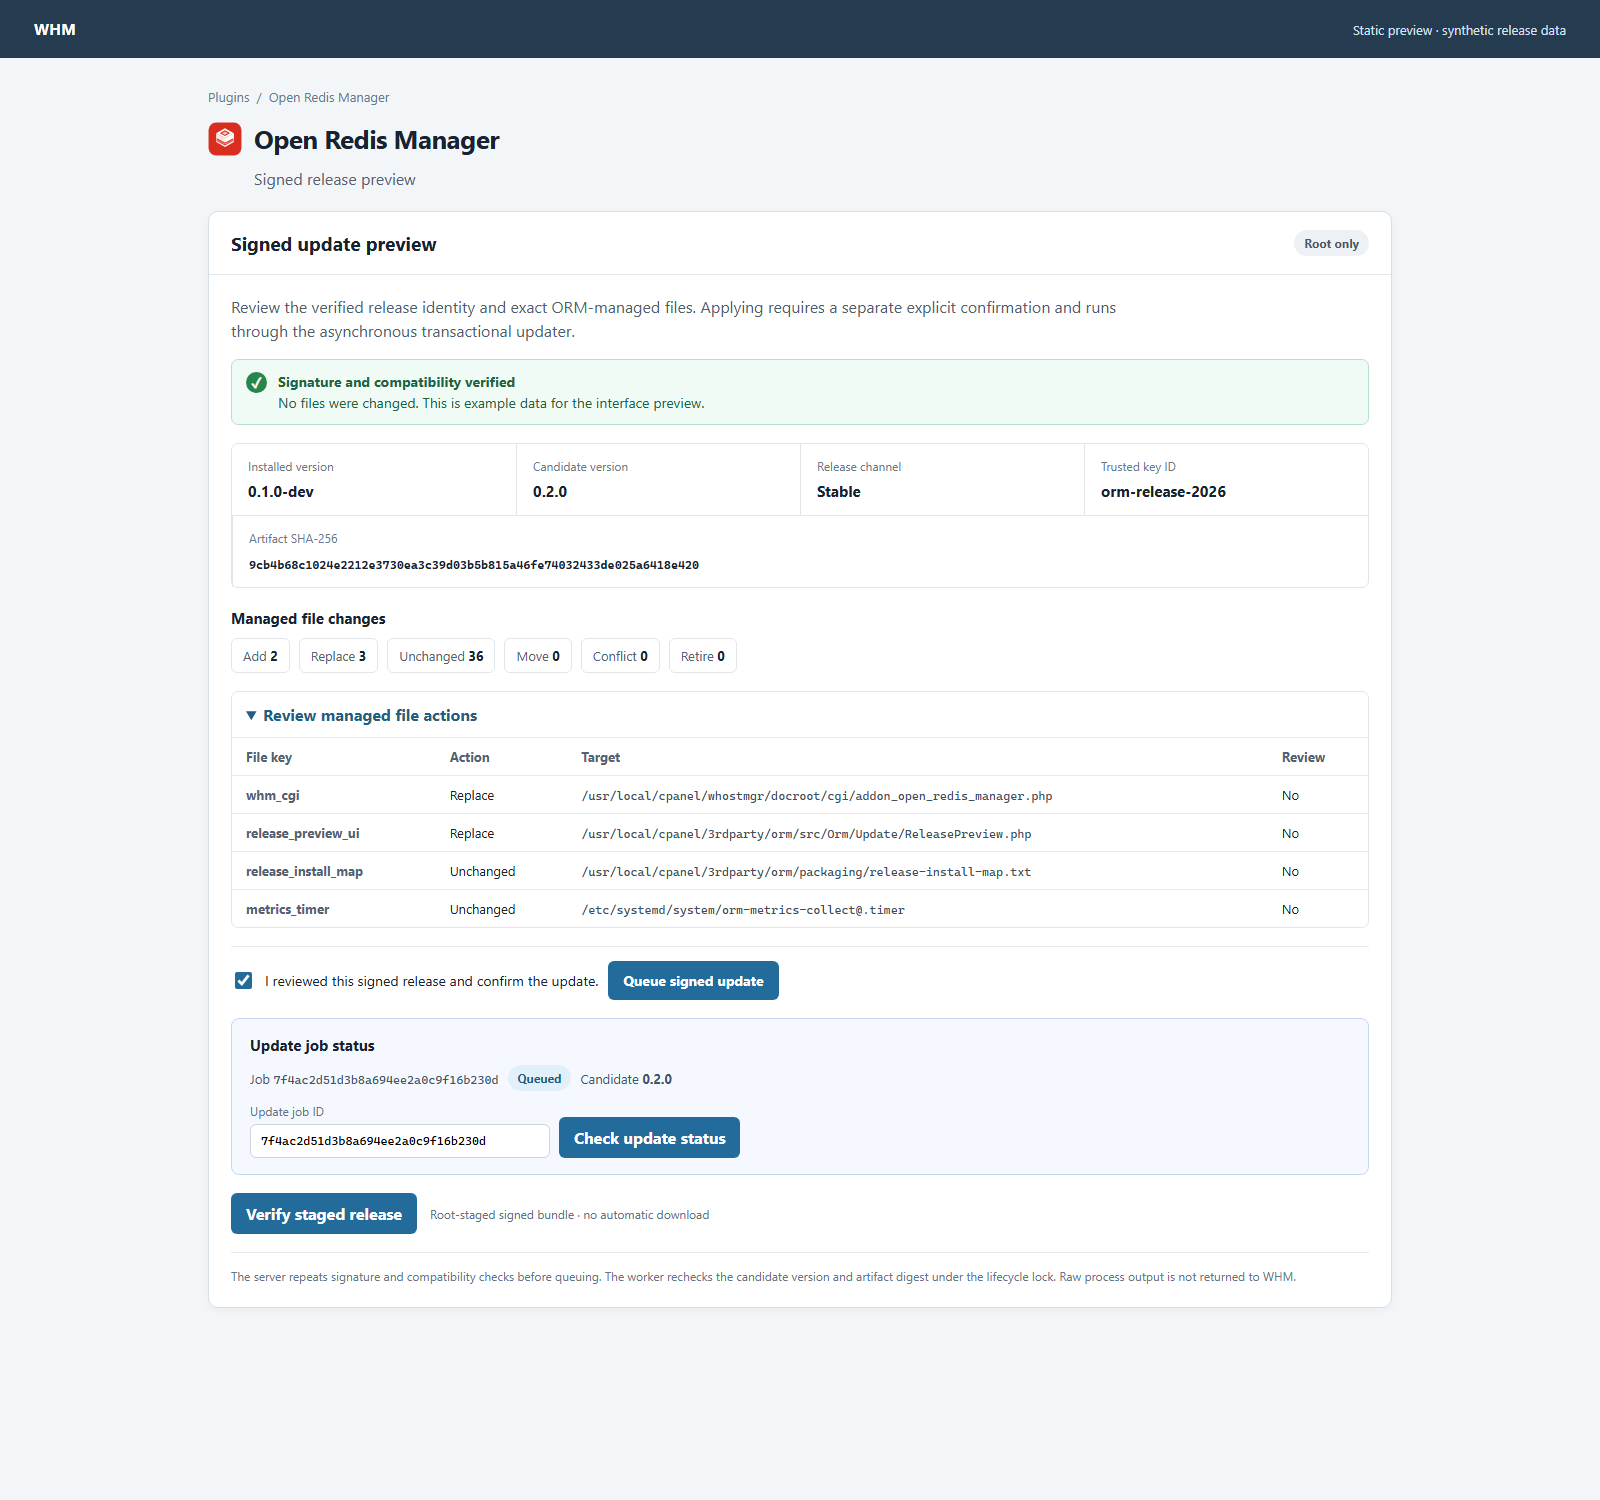
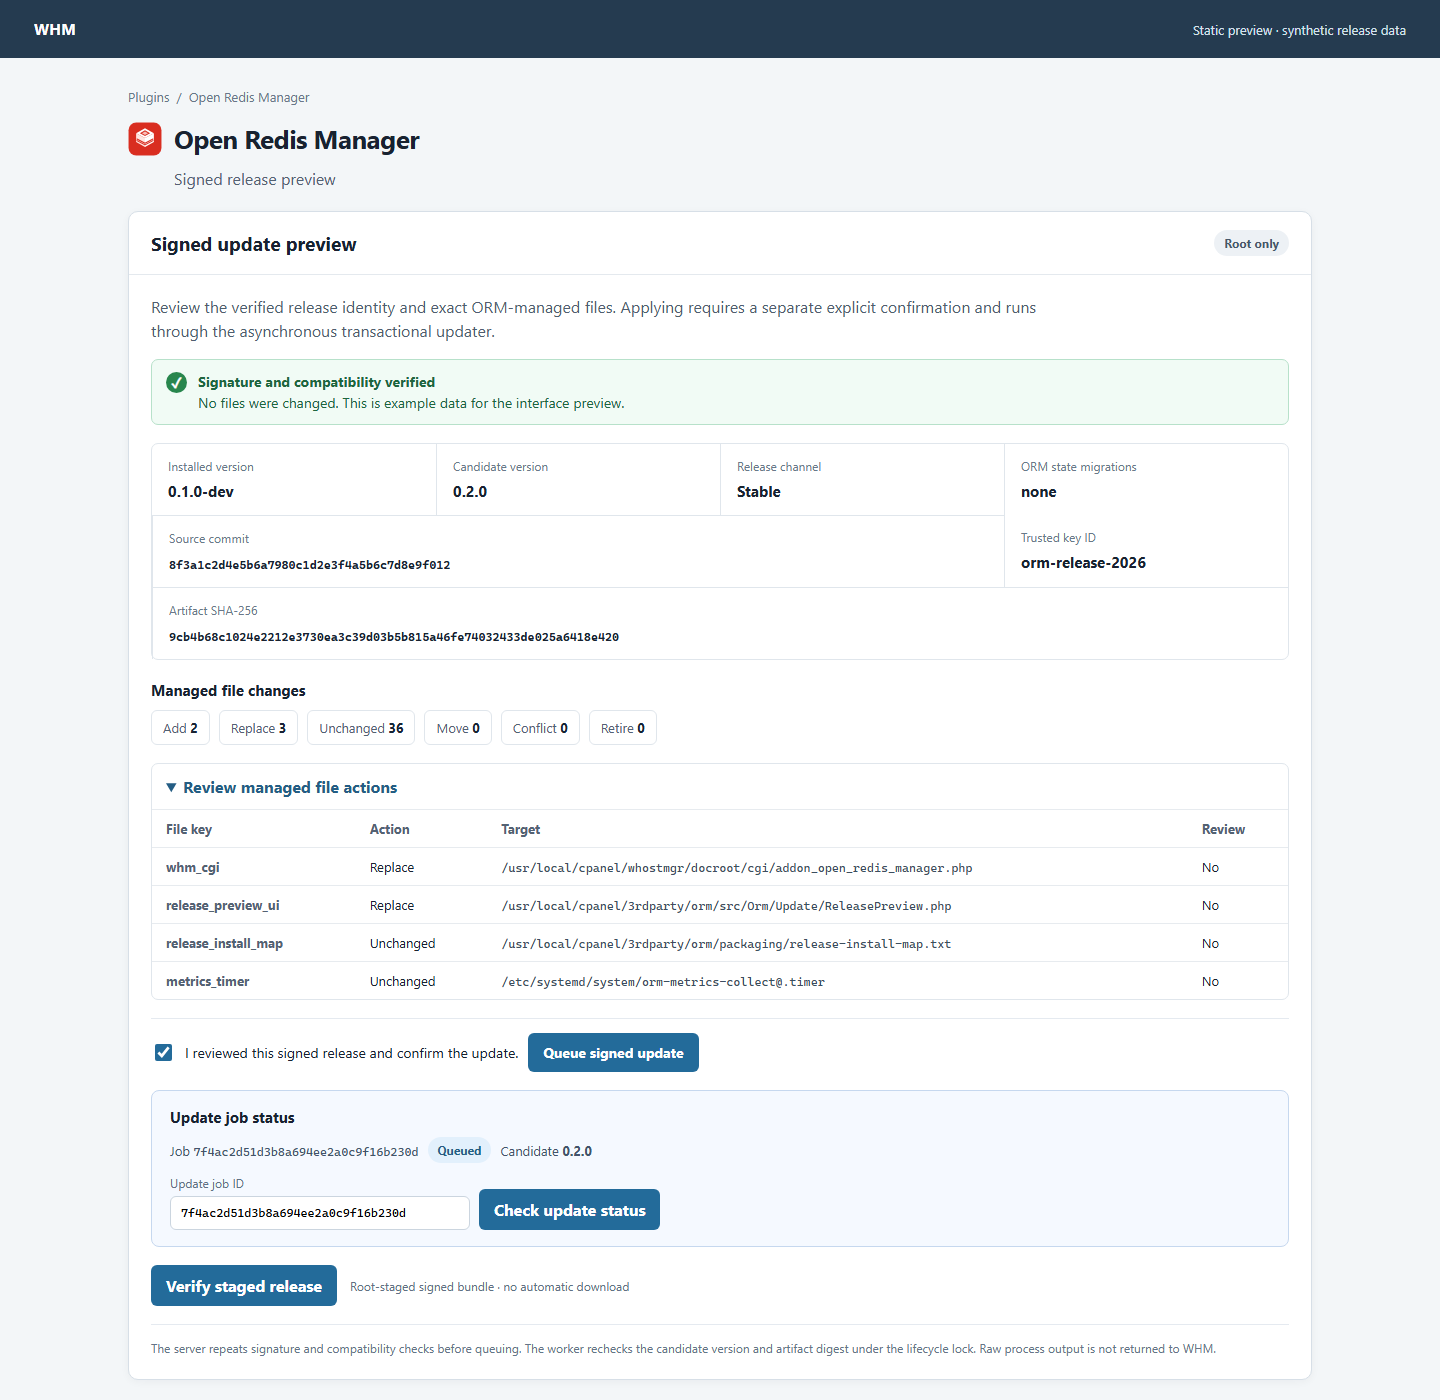
Bind signed releases to source commits

diff --git a/screenshots/previews/whm-update-preview.html b/screenshots/previews/whm-update-preview.html
@@ -32,6 +32,7 @@
     dd { margin: 0; font-size: 15px; font-weight: 650; }
     code { font-family: "Cascadia Code", Consolas, monospace; font-size: 12px; overflow-wrap: anywhere; }
     .digest { grid-column: 1 / -1; border-top: 1px solid #e0e6ec; }
+    .source-commit { grid-column: span 3; border-top: 1px solid #e0e6ec; }
     h3 { margin: 20px 0 10px; font-size: 15px; }
     .counts { display: flex; gap: 9px; flex-wrap: wrap; }
     .counts span { padding: 8px 11px; border: 1px solid #e0e6ec; border-radius: 6px; color: #526173; font-size: 13px; }
@@ -55,7 +56,7 @@
     button { padding: 10px 15px; border: 0; border-radius: 6px; color: white; background: #236b9a; font: inherit; font-weight: 650; }
     .quiet { color: #617184; font-size: 12px; }
     .footnote { margin: 18px 0 0; padding-top: 14px; border-top: 1px solid #e5eaf0; color: #657588; font-size: 12px; line-height: 1.5; }
-    @media (max-width: 760px) { .layout { padding: 0 15px; margin: 18px auto; } .release { grid-template-columns: 1fr 1fr; } .digest { grid-column: 1 / -1; } .topbar { padding: 0 18px; } }
+    @media (max-width: 760px) { .layout { padding: 0 15px; margin: 18px auto; } .release { grid-template-columns: 1fr 1fr; } .digest, .source-commit { grid-column: 1 / -1; } .topbar { padding: 0 18px; } }
   </style>
 </head>
 <body>
@@ -73,6 +74,8 @@
           <div><dt>Installed version</dt><dd>0.1.0-dev</dd></div>
           <div><dt>Candidate version</dt><dd>0.2.0</dd></div>
           <div><dt>Release channel</dt><dd>Stable</dd></div>
+          <div><dt>ORM state migrations</dt><dd>none</dd></div>
+          <div class="source-commit"><dt>Source commit</dt><dd><code>8f3a1c2d4e5b6a7980c1d2e3f4a5b6c7d8e9f012</code></dd></div>
           <div><dt>Trusted key ID</dt><dd>orm-release-2026</dd></div>
           <div class="digest"><dt>Artifact SHA-256</dt><dd><code>9cb4b68c1024e2212e3730ea3c39d03b5b815a46fe74032433de025a6418e420</code></dd></div>
         </dl>

diff --git a/tests/release-preview.php b/tests/release-preview.php
@@ -21,6 +21,7 @@ $valid = [
     'release' => [
         'channel' => 'stable',
         'stateMigrations' => 'none',
+        'sourceCommit' => str_repeat('a', 40),
         'keyId' => 'orm-release-2026',
         'artifactSha256' => str_repeat('a', 64),
     ],
@@ -60,6 +61,7 @@ $assert(($result['ok'] ?? false) === true, 'verified candidate is accepted');
 $assert($result['candidateVersion'] === '0.2.0', 'candidate version is returned');
 $assert($result['fileActions'][0]['key'] === 'whm_cgi', 'file action is returned in normalized form');
 $assert($result['release']['stateMigrations'] === 'none', 'signed no-migration contract is returned for operator review');
+$assert($result['release']['sourceCommit'] === str_repeat('a', 40), 'signed source commit is returned for operator review');
 $assert(!array_key_exists('mutationsApplied', $result), 'UI result does not expose arbitrary verifier fields');
 $systemdAction = $valid;
 $systemdAction['fileActions'][0]['target'] = '/etc/systemd/system/orm-broker.service';
@@ -86,6 +88,9 @@ $assert(!(ReleasePreview::validate($json($invalid), '0.1.0-dev', $allowedTargets
 $invalid = $valid;
 $invalid['release']['stateMigrations'] = 'v1-to-v2';
 $assert(!(ReleasePreview::validate($json($invalid), '0.1.0-dev', $allowedTargets)['ok'] ?? false), 'unsupported state migrations are rejected');
+$invalid = $valid;
+$invalid['release']['sourceCommit'] = 'not-a-commit';
+$assert(!(ReleasePreview::validate($json($invalid), '0.1.0-dev', $allowedTargets)['ok'] ?? false), 'invalid source commits are rejected');
 $assert(!(ReleasePreview::validate('{broken', '0.1.0-dev', $allowedTargets)['ok'] ?? false), 'malformed JSON is rejected');
 $assert(!(ReleasePreview::validate(str_repeat('x', 1048577), '0.1.0-dev', $allowedTargets)['ok'] ?? false), 'oversized output is rejected');
 

diff --git a/src/Orm/Update/ReleasePreview.php b/src/Orm/Update/ReleasePreview.php
@@ -126,13 +126,14 @@ final class ReleasePreview
         }
 
         $release = $preview['release'];
-        foreach (['channel', 'keyId', 'artifactSha256', 'stateMigrations'] as $field) {
+        foreach (['channel', 'keyId', 'artifactSha256', 'stateMigrations', 'sourceCommit'] as $field) {
             if (!is_string($release[$field] ?? null)) {
                 return ['ok' => false, 'message' => 'The signed-update verifier returned incomplete release metadata.'];
             }
         }
         if (strlen($release['channel']) > 32 || strlen($release['keyId']) > 64
             || $release['stateMigrations'] !== 'none'
+            || !preg_match('/\A(?:[a-f0-9]{40}|[a-f0-9]{64})\z/D', $release['sourceCommit'])
             || !preg_match('/\A[a-f0-9]{64}\z/D', $release['artifactSha256'])) {
             return ['ok' => false, 'message' => 'The signed-update verifier returned an invalid artifact digest.'];
         }
@@ -144,6 +145,7 @@ final class ReleasePreview
             'release' => [
                 'channel' => $release['channel'],
                 'stateMigrations' => $release['stateMigrations'],
+                'sourceCommit' => $release['sourceCommit'],
                 'keyId' => $release['keyId'],
                 'artifactSha256' => $release['artifactSha256'],
             ],

diff --git a/packaging/whm/cgi/addon_open_redis_manager.php b/packaging/whm/cgi/addon_open_redis_manager.php
@@ -691,6 +691,7 @@ WHM::header('Open Redis Manager', 0, 0);
             <dt>Installed version</dt><dd><?= htmlspecialchars($updatePreview['installedVersion'], ENT_QUOTES | ENT_SUBSTITUTE, 'UTF-8') ?></dd>
             <dt>Candidate version</dt><dd><?= htmlspecialchars($updatePreview['candidateVersion'], ENT_QUOTES | ENT_SUBSTITUTE, 'UTF-8') ?></dd>
             <dt>Release channel</dt><dd><?= htmlspecialchars($updatePreview['release']['channel'], ENT_QUOTES | ENT_SUBSTITUTE, 'UTF-8') ?></dd>
+            <dt>Source commit</dt><dd><code><?= htmlspecialchars($updatePreview['release']['sourceCommit'], ENT_QUOTES | ENT_SUBSTITUTE, 'UTF-8') ?></code></dd>
             <dt>ORM state migrations</dt><dd><?= htmlspecialchars($updatePreview['release']['stateMigrations'], ENT_QUOTES | ENT_SUBSTITUTE, 'UTF-8') ?></dd>
             <dt>Trusted key ID</dt><dd><?= htmlspecialchars($updatePreview['release']['keyId'], ENT_QUOTES | ENT_SUBSTITUTE, 'UTF-8') ?></dd>
             <dt>Artifact SHA-256</dt><dd><code><?= htmlspecialchars($updatePreview['release']['artifactSha256'], ENT_QUOTES | ENT_SUBSTITUTE, 'UTF-8') ?></code></dd>

diff --git a/docs/guides/release-signing.md b/docs/guides/release-signing.md
@@ -1,6 +1,6 @@
 # Offline release bundle signing
 
-`packaging/build-release.sh` builds a release bundle from a clean Git checkout and signs the strict metadata format consumed by the WHM updater. The private key stays outside the repository and is never copied to the output. This is an offline operator workflow, not a hosted signing service or automatic release publisher.
+`packaging/build-release.sh` builds a release bundle from a clean Git checkout and signs the strict metadata format consumed by the WHM updater. Signed metadata records the exact 40- or 64-character Git source commit; WHM displays it beside the version, key ID, and artifact digest. The declaration binds the signer’s approval to a specific commit, but does not by itself prove reproducible-build equivalence or that the commit was reviewed. Verify that it is the intended merged commit before signing. The private key stays outside the repository and is never copied to the output. This is an offline operator workflow, not a hosted signing service or automatic release publisher.
 
 ## Prepare a release source
 
@@ -32,7 +32,7 @@ The builder requires the candidate release to be newer than the maximum installe
 The command creates a new `orm-VERSION/` directory containing:
 
 - `orm-VERSION.tar.gz` — the allowlisted release payload, with normalized file ownership, timestamps and modes;
-- `release.metadata` — version, compatibility range, channel, key ID, artifact size/digest, validity window, and the signed `state_migrations|none` declaration;
+- `release.metadata` — version, compatibility range, channel, key ID, exact source commit, artifact size/digest, validity window, and the signed `state_migrations|none` declaration;
 - `release.sig` — an RSA/SHA-256 detached signature over the exact metadata bytes;
 - `KEY_ID.pem` — the derived public key to distribute through a separately reviewed trust-key change.
 
@@ -40,10 +40,23 @@ It validates the archive structure and checks the signature against the derived 
 
 The updater accepts only the no-migration declaration. Releases that need to alter persistent ORM state must wait for a separately reviewed, versioned migration path with backup, rollback, and interruption recovery. See the [reviewed no-migration release contract](update-lifecycle.md#reviewed-no-migration-release-contract).
 
-## Trust and stage the bundle
+## Signing-key custody and rotation
 
-Review the generated metadata, artifact digest, signature, archive, and public key. Distribute the public key to the target server through a trusted administrative channel and install it as `/etc/orm/release-keys/KEY_ID.pem`, owned by root with no group/world write access. Keep currently trusted keys until all releases signed by them have expired or been deliberately retired. Plan key rotation before signing with a new key ID.
+The repository contains no production signing private key. Before the first public release, the project owner must designate the release-key custodian and approve the trust-key distribution channel. Keep the encrypted RSA private key on an offline or tightly controlled release workstation, restrict access to the designated custodian, and maintain an encrypted backup with separately controlled access. Never place the private key or passphrase in Git, CI, Ruflo memory, a cPanel host, a public artifact, or command-line arguments. This repository does not operate a signing service or automate key revocation.
 
-Manually stage the three release files under the fixed root-owned directory `/var/cpanel/orm/updates/staged/` as `release.metadata`, `release.sig`, and `release.tar.gz`. Never copy the private key to the server. Then use **WHM → Open Redis Manager → Verify staged release**, review the file actions, and apply only a conflict-free preview after explicit confirmation.
+For a planned rotation:
+
+1. Generate a new encrypted key and a never-before-used key ID. Derive the public key and record its SHA-256 fingerprint through the offline release procedure.
+2. Distribute the new public key to target servers through the owner-approved administrative channel as `/etc/orm/release-keys/KEY_ID.pem`, root-owned and not writable by group or other users. Verify its fingerprint on each target.
+3. Keep the old public key installed during an overlap period. Sign new bundles with the new key ID only after the trust change is deployed. Do not remove the old key while any unexpired bundle or queued update may rely on it.
+4. After the old key’s latest metadata expiry (at most 90 days), confirm no staged or queued release uses it, then remove its public key from targets through the same reviewed channel. Never reuse a retired key ID.
+
+For suspected compromise, stop signing immediately, remove the compromised public key from every target through a trusted administrative channel, and establish a new key and trust change before resuming. A GitHub commit or artifact signature cannot revoke a key already trusted by an offline server.
+
+## Publish and stage a bundle
+
+The offline builder creates and verifies files but does not publish them. Before publication, verify the signed source commit is the reviewed release commit, confirm the clean checkout and green CI, inspect `release.metadata`, compare the artifact digest, verify the detached signature, and retain the complete bundle with its public key and a release record. If publishing through GitHub Releases, attach the archive, metadata, signature, and public key as a single reviewed release; publish the SHA-256 digest and source commit in the release notes. Do not overwrite a published version or silently replace its artifacts. ORM does not publish release artifacts automatically.
+
+Transfer the archive as `release.tar.gz`, `release.metadata`, and `release.sig` to `/var/cpanel/orm/updates/staged/` using the owner-approved administrative channel. Keep that directory root-owned with mode `0700`; staged files must be regular files, root-owned, and not group/world writable. Never copy the private key to a server. Independently compare the staged archive digest to the published release record. Then use **WHM → Open Redis Manager → Verify staged release**, confirm the source commit, key ID, digest, state-migration declaration and file actions, and apply only a conflict-free preview after explicit confirmation.
 
 See the [update preview guide](update-preview.md), [transaction lifecycle](update-lifecycle.md), and [recovery guide](update-recovery.md). Live cPanel validation of signing, staging, apply, rollback, and recovery is still required before production use.

diff --git a/docs/release-notes.md b/docs/release-notes.md
@@ -24,7 +24,7 @@ These notes distinguish repository implementation from deployment readiness. A f
 - On-demand fleet status and fresh scheduled-metrics aggregates, plus sequential create/restore batches capped at two visible running accounts with independent audited outcomes.
 - Root-only WHM signed-release preview and apply for manually staged bundles: signature and digest verification, explicit conflict-free confirmation, candidate-bound asynchronous transaction jobs, bounded status, and recovery-required reporting. Existing installs must have an exact v3 manifest; v1/v2 manifest adoption only succeeds for an exact match. Live disposable cPanel validation remains open.
 - Offline release bundle builder for clean, version-matched Git checkouts. It signs bounded metadata with an external RSA private key, derives the public key, validates the archive, and refuses dirty source, unsafe key/output paths, and overwriting an existing bundle. It does not automate publishing or key rotation.
-- Signed release metadata v2 declares `state_migrations|none`; the verifier and WHM preview reject unsupported state migrations and display the declaration before confirmation. Persistent-state transforms require a separate reviewed updater path.
+- Signed release metadata v2 binds the exact source commit and declares `state_migrations|none`; the verifier and WHM preview reject unsupported state migrations and display both values before confirmation. Persistent-state transforms require a separate reviewed updater path.
 - Root-only report-only security review for fresh fleet memory/client/hit-ratio aggregates, bounded evicted-key and processed-command counter deltas, optional backend authentication-failure counter deltas, and recent normalized ORM AUTH management outcomes. Counter rates require compatible consecutive samples with uptime continuity and actual intervals no longer than 26 hours; reports show interval bounds and treat gaps, missing fields, and resets as unknown. Backend authentication counters are anonymous aggregate evidence and do not identify clients or establish an attack. Operation and authentication activity is not classified as abuse. Requests are limited to one per minute and report events contain fixed metadata only; credential-strength findings remain unavailable.
 - Version-four root WHM provider policy with validated defaults for memory, eviction, databases, snapshot retention, and metrics-history retention. New version-three instance manifests capture database, retention, and snapshot defaults; Redis/Valkey config and history collection apply them without rewriting existing instances. Metrics history supports 7–90 days within the 2,160-sample and 1 MiB caps.
 

diff --git a/docs/guides/update-lifecycle.md b/docs/guides/update-lifecycle.md
@@ -43,6 +43,8 @@ cPanel documents `install_plugin` as the supported way to register a plugin and 
 
 ## Reviewed no-migration release contract
 
+Release metadata v2 also signs the exact source commit ID from the clean release checkout. WHM displays that commit with the artifact digest and trusted key ID. The signature binds these values together; operators still need to confirm the commit is the intended reviewed release source.
+
 Signed package updates are file-only. Each signed release declares `state_migrations|none`; the verifier, comparator, WHM preview contract, and apply path require that exact value. The transaction may replace or add only allowlisted package files and update the root-owned install manifest. It does not rewrite provider policy, per-account manifests or configuration, Redis/Valkey data, credentials, backend selection, or cPanel/WHM registration. File additions and replacements do not imply a persistent-state migration.
 
 Every release PR must explicitly review changes to persistent formats, including the install manifest, provider policy, account instance manifests, and update job/recovery records. If behavior requires a persistent-state transform, the release is not eligible for the current updater contract: implement and review a separate versioned migration transaction first, or keep the format backward-compatible. Do not change `state_migrations` to another value until the updater implements that migration type and its backup, rollback, interruption, and recovery gates. The signed declaration is an operator-visible assertion, not an automatic proof that source code has no state-changing side effects; PR review and tests must check the assertion against the diff.

diff --git a/docs/guides/update-preview.md b/docs/guides/update-preview.md
@@ -1,6 +1,6 @@
 # WHM signed update preview
 
-The WHM page exposes a root-only **Verify staged release** action. It checks a manually staged signed release and displays its installed and candidate versions, signature key ID, artifact digest, and managed-file actions. A conflict-free preview also exposes an explicit confirmation form that queues the signed update asynchronously; the browser request never runs the apply transaction itself.
+The WHM page exposes a root-only **Verify staged release** action. It checks a manually staged signed release and displays its installed and candidate versions, signature key ID, signed source commit, artifact digest, migration declaration, and managed-file actions. A conflict-free preview also exposes an explicit confirmation form that queues the signed update asynchronously; the browser request never runs the apply transaction itself.
 
 ![ORM WHM signed update preview interface](../../screenshots/whm-update-preview.png)
 
